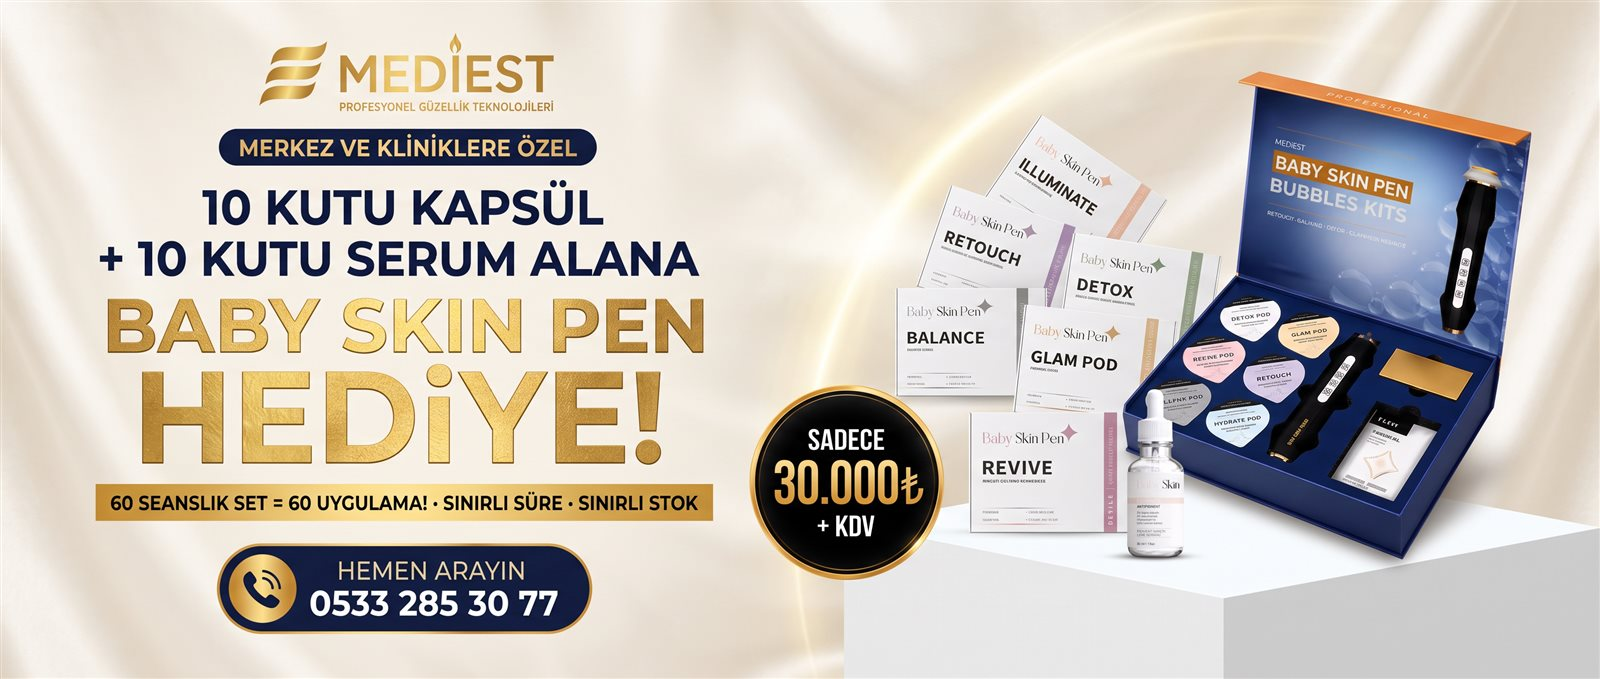
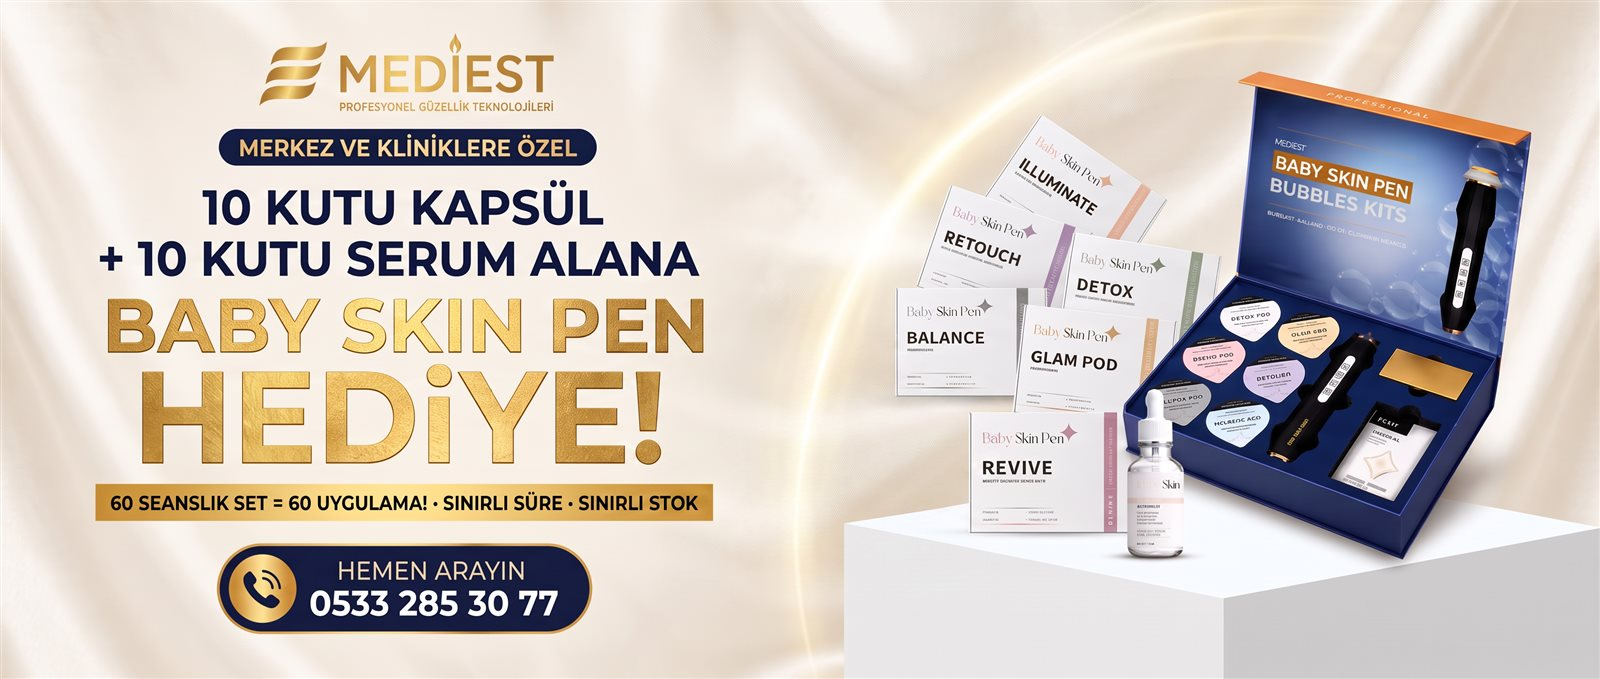
Kampanya görselinden ve site metinlerinden 30.000₺ fiyatı kaldırıldı (kapılı fiyat: 'özel fiyat için arayın')
- kampanya-yaz.jpg yeniden üretildi (Nano Banana Pro): fiyat madalyonu silindi, arka plan kusursuz devam ediyor, diğer tüm öğeler aynı
- landing.html + index.html: meta/og/twitter/JSON-LD/SSS/kampanya kartı metinlerinden fiyat çıkarıldı, yerine telefon CTA'sı

diff --git a/landing.html b/landing.html
@@ -4,22 +4,22 @@
 <meta charset="UTF-8">
 <meta name="viewport" content="width=device-width, initial-scale=1.0">
 <title>Baby Skin Pen — Cilt Bakımında Yepyeni Bir Çağ | 0533 285 30 77</title>
-<meta name="description" content="Baby Skin Pen: radyo aktif ses dalgaları, döner başlık ve 7 renkli LED fototerapi ile yeni nesil cilt bakım cihazı. 10 kutu kapsül + 10 kutu serum alana cihaz hediye — 30.000₺+KDV. Merkez ve kliniklere özel. Bilgi: 0533 285 30 77">
+<meta name="description" content="Baby Skin Pen: radyo aktif ses dalgaları, döner başlık ve 7 renkli LED fototerapi ile yeni nesil cilt bakım cihazı. 10 kutu kapsül + 10 kutu serum alana cihaz hediye! Merkez ve kliniklere özel. Bilgi: 0533 285 30 77">
 <meta name="robots" content="index, follow">
 <link rel="canonical" href="https://babyskinpen.com/landing.html">
 <meta property="og:type" content="website">
 <meta property="og:site_name" content="Baby Skin Pen — MediEst Group">
 <meta property="og:locale" content="tr_TR">
 <meta property="og:title" content="10 Kutu Kapsül + 10 Kutu Serum Alana Baby Skin Pen Hediye!">
-<meta property="og:description" content="Merkez ve kliniklere özel kampanya: 60 seanslık set = 60 uygulama, sadece 30.000₺+KDV. Yeni nesil cilt bakım teknolojisi. Bilgi: 0533 285 30 77">
+<meta property="og:description" content="Merkez ve kliniklere özel kampanya: 60 seanslık set = 60 uygulama. Yeni nesil cilt bakım teknolojisi. Fiyat ve detay için: 0533 285 30 77">
 <meta property="og:url" content="https://babyskinpen.com/landing.html">
 <meta property="og:image" content="https://babyskinpen.com/assets/kampanya-yaz.jpg">
 <meta property="og:image:width" content="1600">
 <meta property="og:image:height" content="679">
-<meta property="og:image:alt" content="10 kutu kapsül + 10 kutu serum alana Baby Skin Pen hediye — 30.000₺ + KDV">
+<meta property="og:image:alt" content="10 kutu kapsül + 10 kutu serum alana Baby Skin Pen hediye — merkez ve kliniklere özel">
 <meta name="twitter:card" content="summary_large_image">
 <meta name="twitter:title" content="10 Kutu Kapsül + 10 Kutu Serum Alana Baby Skin Pen Hediye!">
-<meta name="twitter:description" content="Merkez ve kliniklere özel: 60 seanslık set, sadece 30.000₺+KDV. Bilgi: 0533 285 30 77">
+<meta name="twitter:description" content="Merkez ve kliniklere özel: 60 seanslık set = 60 uygulama. Fiyat ve detay için: 0533 285 30 77">
 <meta name="twitter:image" content="https://babyskinpen.com/assets/kampanya-yaz.jpg">
 <link rel="preconnect" href="https://fonts.googleapis.com">
 <link rel="preconnect" href="https://fonts.gstatic.com" crossorigin>
@@ -388,7 +388,7 @@ a.crow:hover{background:rgba(255,255,255,.14);transform:translateX(5px)}
       "@type": "FAQPage",
       "mainEntity": [
         { "@type": "Question", "name": "Baby Skin Pen nedir?", "acceptedAnswer": { "@type": "Answer", "text": "360° dönen başlığa sahip, kişiye uygun kapsül serilerini cilde ileten, 7 renk LED destekli yeni nesil bir cilt bakım teknolojisidir." } },
-        { "@type": "Question", "name": "Güncel kampanya nedir?", "acceptedAnswer": { "@type": "Answer", "text": "Merkez ve kliniklere özel: 10 kutu kapsül + 10 kutu serum alana Baby Skin Pen cihazı hediye — sadece 30.000₺ + KDV. Toplam 60 seanslık set = 60 uygulama." } },
+        { "@type": "Question", "name": "Güncel kampanya nedir?", "acceptedAnswer": { "@type": "Answer", "text": "Merkez ve kliniklere özel: 10 kutu kapsül + 10 kutu serum alana Baby Skin Pen cihazı hediye. Toplam 60 seanslık set = 60 uygulama. Güncel fiyat ve koşullar için 0533 285 30 77." } },
         { "@type": "Question", "name": "Seans sayısı ve aralığı nedir?", "acceptedAnswer": { "@type": "Answer", "text": "Genellikle 4–6 seans, 15–20 gün arayla uygulanır. İlk seanstan itibaren ciltte fark edilir canlılık hissi sağlar." } },
         { "@type": "Question", "name": "Uygulama tüm yıl yapılabilir mi?", "acceptedAnswer": { "@type": "Answer", "text": "Evet, 4 mevsim tüm yıl boyunca güvenle uygulanabilir." } },
         { "@type": "Question", "name": "Satış kimlere yapılıyor?", "acceptedAnswer": { "@type": "Answer", "text": "Satışlarımız yalnızca güzellik merkezi ve kliniklere yapılmaktadır." } }
@@ -666,12 +666,12 @@ a.crow:hover{background:rgba(255,255,255,.14);transform:translateX(5px)}
   <div class="wrap">
     <div class="kamp rv">
       <div class="kamp-media">
-        <img src="assets/kampanya-yaz.jpg" alt="Merkez ve kliniklere özel: 10 kutu kapsül + 10 kutu serum alana Baby Skin Pen hediye — sadece 30.000₺ + KDV">
+        <img src="assets/kampanya-yaz.jpg" alt="Merkez ve kliniklere özel: 10 kutu kapsül + 10 kutu serum alana Baby Skin Pen hediye">
       </div>
       <div class="kamp-body">
         <div>
           <h2>☀ 10 kutu kapsül + 10 kutu serum alana <b>Baby Skin Pen hediye!</b></h2>
-          <p>60 seanslık set = <b style="color:#fff">60 uygulama</b> — sadece <b style="color:#fff">30.000₺ + KDV</b>. Merkez ve kliniklere özel; sınırlı süre, sınırlı stok.</p>
+          <p>60 seanslık set = <b style="color:#fff">60 uygulama</b>. Merkez ve kliniklere özel; sınırlı süre, sınırlı stok. <b style="color:#fff">Özel fiyat için hemen arayın.</b></p>
         </div>
         <div class="kamp-actions">
           <span class="kamp-tel">0533 285 30 77</span>
@@ -714,7 +714,7 @@ a.crow:hover{background:rgba(255,255,255,.14);transform:translateX(5px)}
       <div class="fq"><button type="button">Seans sayısı ve aralığı nedir?</button><div class="ans"><p>Genellikle <b>4–6 seans</b>, <b>15–20 gün</b> arayla uygulanır. İlk seanstan itibaren ciltte fark edilir canlılık hissi sağlar.</p></div></div>
       <div class="fq"><button type="button">Uygulama tüm yıl yapılabilir mi?</button><div class="ans"><p>Evet — <b>4 mevsim</b>, tüm yıl boyunca güvenle uygulanabilir.</p></div></div>
       <div class="fq"><button type="button">Bir kapsül kutusunda ne var, kaç seans gider?</button><div class="ans"><p>Her kutuda <b>6 kapsül + 6 primer gel</b> bulunur; bir kutu <b>6 seans</b> içindir.</p></div></div>
-      <div class="fq"><button type="button">Güncel kampanya nedir?</button><div class="ans"><p>Merkez ve kliniklere özel: <b>10 kutu kapsül + 10 kutu serum</b> alana <b>Baby Skin Pen cihazı hediye</b> — sadece <b>30.000₺ + KDV</b>. Toplam <b>60 seanslık set = 60 uygulama</b>. Sınırlı süre, sınırlı stok.</p></div></div>
+      <div class="fq"><button type="button">Güncel kampanya nedir?</button><div class="ans"><p>Merkez ve kliniklere özel: <b>10 kutu kapsül + 10 kutu serum</b> alana <b>Baby Skin Pen cihazı hediye</b>. Toplam <b>60 seanslık set = 60 uygulama</b>. Sınırlı süre, sınırlı stok — güncel fiyat ve koşullar için <b>0533 285 30 77</b>.</p></div></div>
       <div class="fq"><button type="button">Merkezlerde seans ücreti ne kadar?</button><div class="ans"><p>Merkez ve kliniklerde danışana <b>2.000–2.500 ₺</b> aralığında uygulanmaktadır. Fiyatlar güncel ekonomik koşullara göre değişkenlik gösterebilir.</p></div></div>
       <div class="fq"><button type="button">Satış kimlere yapılıyor?</button><div class="ans"><p>Satışlarımız yalnızca <b>güzellik merkezi ve kliniklere</b> yapılmaktadır.</p></div></div>
       <div class="fq"><button type="button">Eğitim nasıl veriliyor?</button><div class="ans"><p><b>Online</b> veya <b>Bakırköy showroom'da birebir</b> eğitim verilir; cihaz alan bayilere sosyal medya (grafik + reels) desteği sağlanır.</p></div></div>

diff --git a/index.html b/index.html
@@ -3,11 +3,11 @@
 <head>
 <meta charset="utf-8">
 <title>Baby Skin Pen — MediEst Group</title>
-<meta name="description" content="Baby Skin Pen: yeni nesil profesyonel cilt bakım cihazı. 10 kutu kapsül + 10 kutu serum alana cihaz hediye — 30.000₺+KDV. Merkez ve kliniklere özel. 0533 285 30 77">
+<meta name="description" content="Baby Skin Pen: yeni nesil profesyonel cilt bakım cihazı. 10 kutu kapsül + 10 kutu serum alana cihaz hediye! Merkez ve kliniklere özel. 0533 285 30 77">
 <link rel="canonical" href="https://babyskinpen.com/landing.html">
 <meta property="og:type" content="website">
 <meta property="og:title" content="10 Kutu Kapsül + 10 Kutu Serum Alana Baby Skin Pen Hediye!">
-<meta property="og:description" content="Merkez ve kliniklere özel kampanya: 60 seanslık set = 60 uygulama, sadece 30.000₺+KDV. Bilgi: 0533 285 30 77">
+<meta property="og:description" content="Merkez ve kliniklere özel kampanya: 60 seanslık set = 60 uygulama. Fiyat ve detay için: 0533 285 30 77">
 <meta property="og:url" content="https://babyskinpen.com/">
 <meta property="og:image" content="https://babyskinpen.com/assets/kampanya-yaz.jpg">
 <meta property="og:image:width" content="1600">
